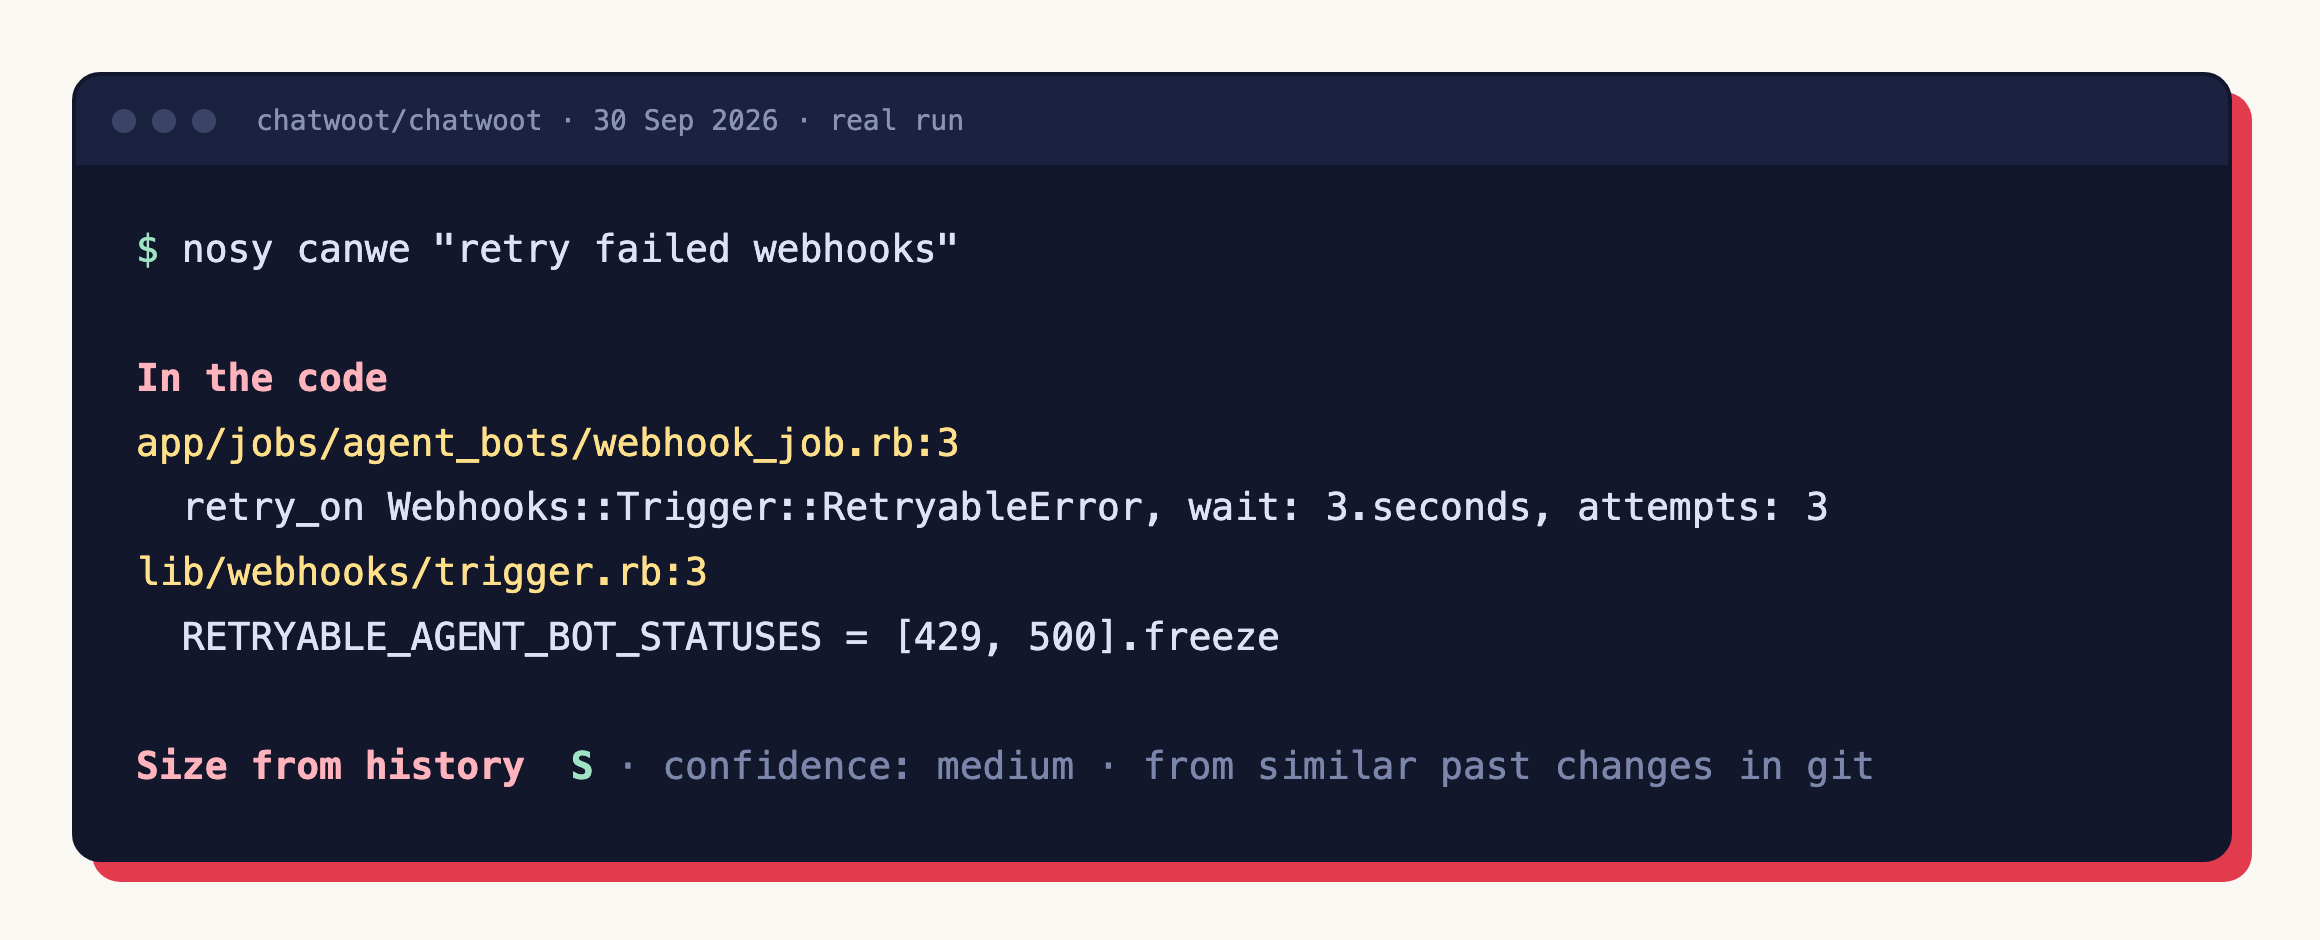
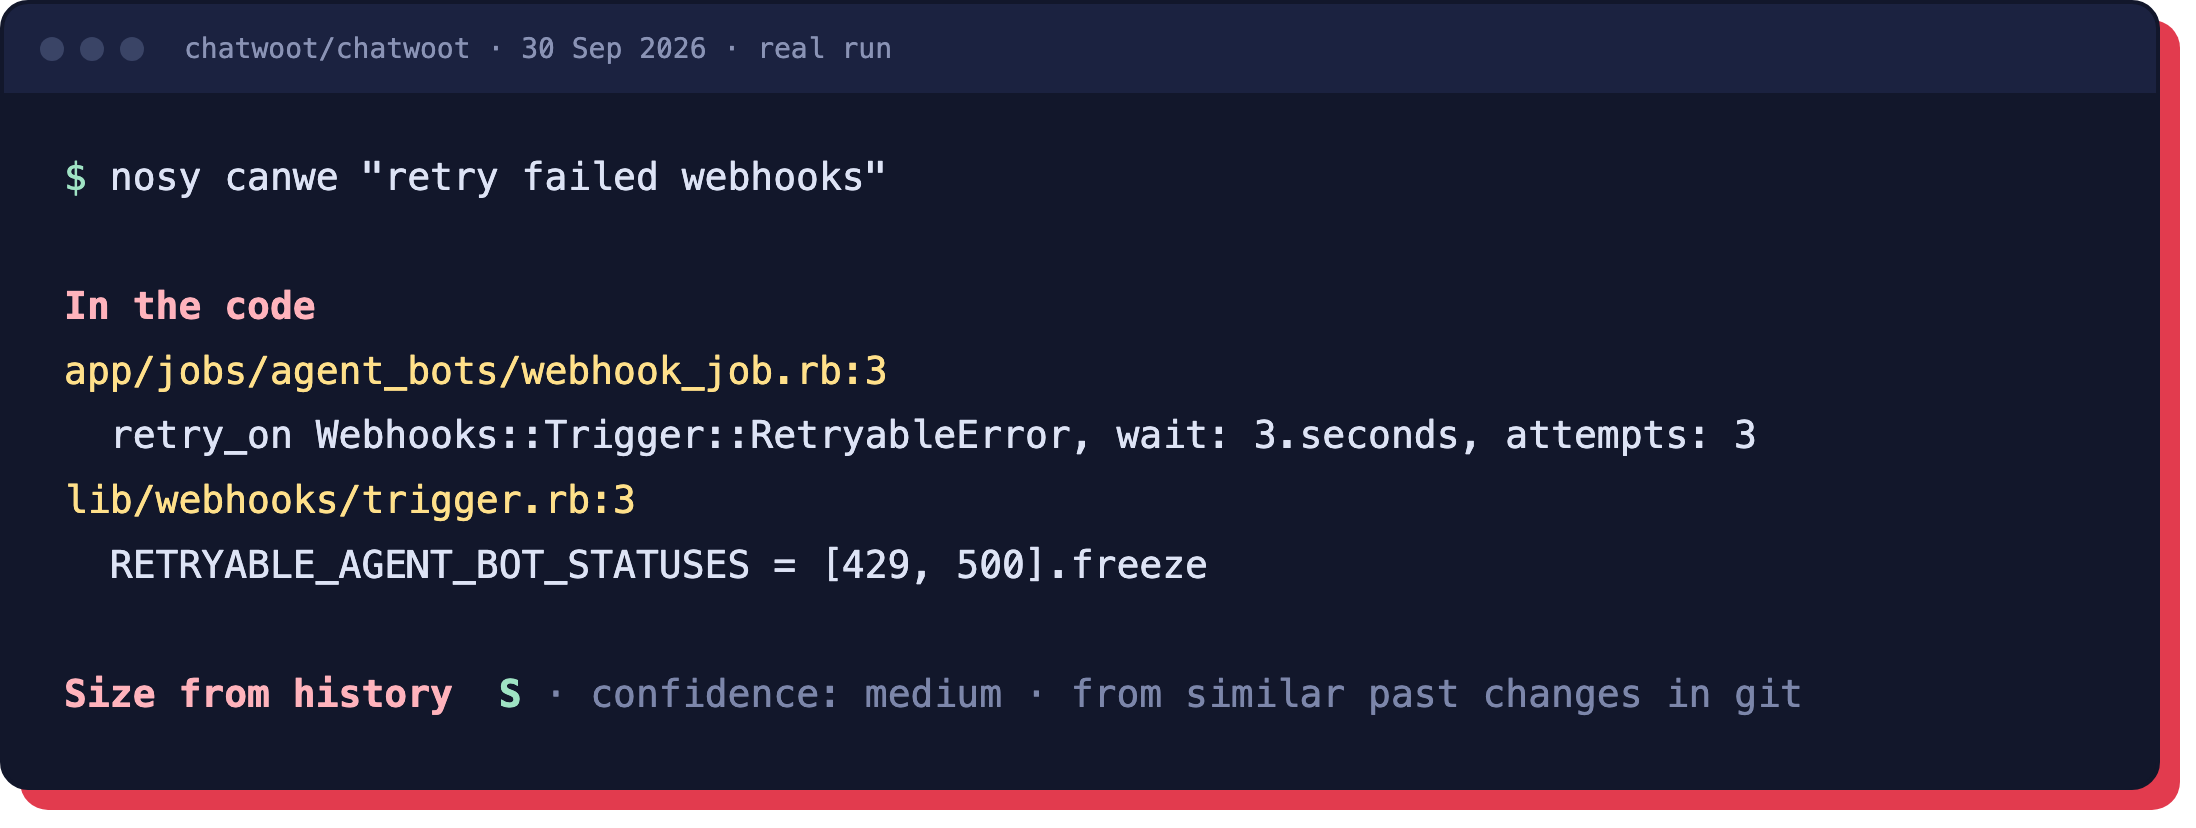
README: price line under the pitch, transparent sample image, shorter counts line

Changed region(s): [[0.0, 0.0, 1.0, 0.9964]]

diff --git a/README.md b/README.md
@@ -12,11 +12,13 @@
 
 A product manager inside your coding agent. It goes through your backend, git history and roadmap first, then checks what your rivals shipped, and tells you what to build next: **sized, placed on the roadmap, with a receipt for every claim.**
 
+Your agent reads today's code. Nosy keeps what a session can't: the record of what merged and why, demand counted from your issues, and last week's answers.
+
+The plugin is free and MIT. Nosy Cloud (cloud.nosy.sh) is live and free for now: a shared record for your team. It never changes what the plugin does. [See a sample report](https://cloud.nosy.sh/demo) (made-up data).
+
 <p align="center"><img src="docs/assets/canwe.png" alt="A real run of nosy canwe on chatwoot/chatwoot: the code lines that already retry agent-bot webhooks, and a size of S from git history" width="860"></p>
 
 <p align="center"><sub>A real run on <a href="https://github.com/chatwoot/chatwoot">chatwoot/chatwoot</a>, lines removed. Nosy hands your agent the evidence; the verdict is your agent's. <a href="docs/EXAMPLE.md">Full run, and what it got wrong</a>.</sub></p>
-
-The plugin is free and MIT. Nosy Cloud (cloud.nosy.sh) is live and free for now: a shared record for your team. It never changes what the plugin does. [See a sample report](https://cloud.nosy.sh/demo) (made-up data).
 
 ## Install
 
@@ -107,7 +109,7 @@ Every command also runs from the terminal with no model: `npx github:nosy-hq/nos
 
 </details>
 
-**1 skill · 17 commands · 80 scripts · 4 hooks · 16 named rules.** The counting is plain, dependency-free Node: it runs in your terminal, in CI or as an MCP server, with no model and no API key. Your agent adds the judgment. Everything Nosy remembers lives in a `pm/` folder in your repo. `nosy explain` lists the rules and says which a script checks and which are instructions.
+**1 skill · 17 commands · 80 scripts · 4 hooks · 16 named rules.** Plain, dependency-free Node: the counting runs in your terminal, in CI or as an MCP server, with no model and no API key. Your agent adds the judgment. Everything Nosy remembers lives in a `pm/` folder in your repo.
 
 ## If it broke
 
